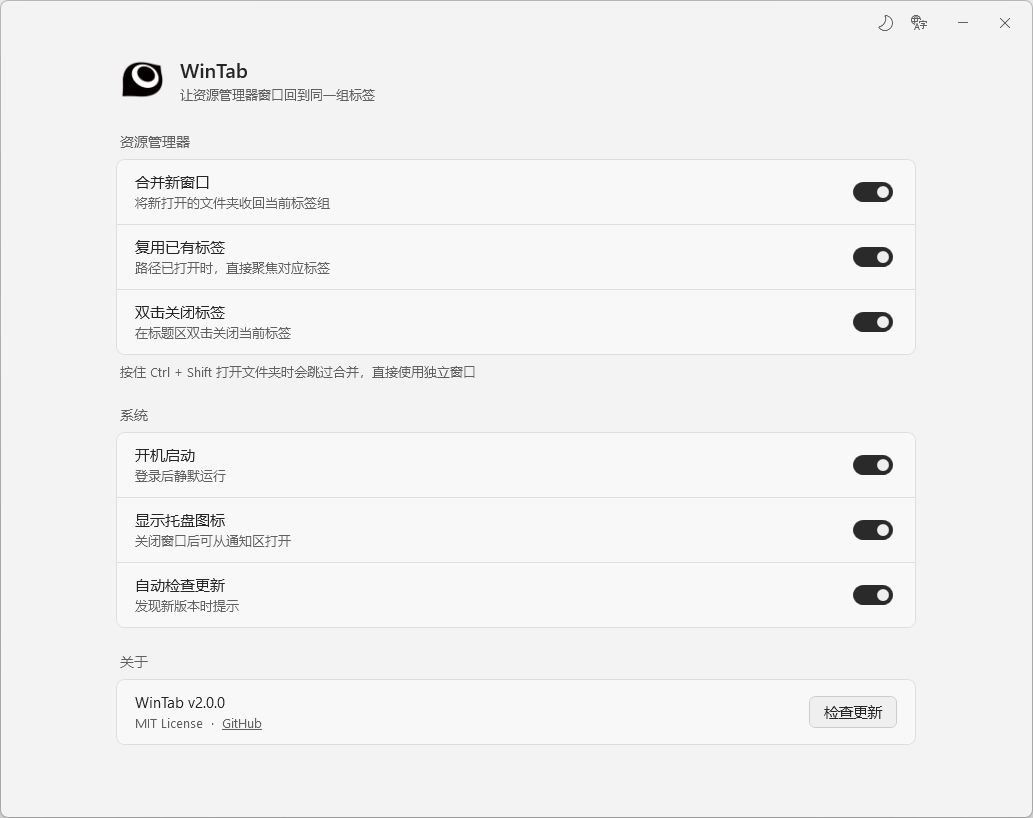
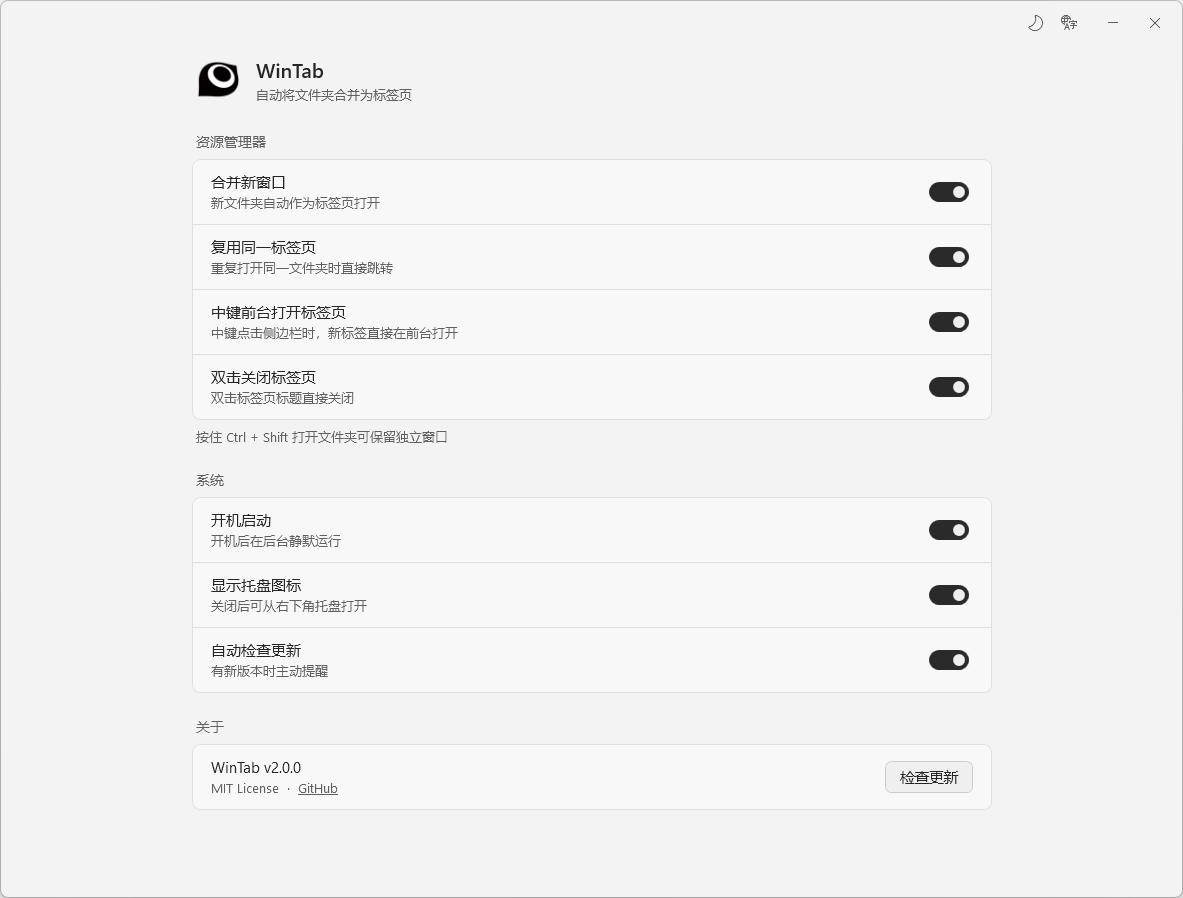
docs: 更新功能说明与界面预览图
- README 中英文补充中键前台打开标签页功能，重写功能列表描述

- 更新 Assets/UI.png 界面预览图

diff --git a/README.en.md b/README.en.md
@@ -20,11 +20,12 @@ WinTab is a Windows 11 utility that automatically merges newly opened File Explo
 
 ## Features
 
-- Merge newly opened File Explorer windows
-- Reuse tabs for paths that are already open
-- Close the current tab by double-clicking the tab title
-- Hold `Ctrl + Shift` for a separate Explorer window
-- System tray runtime
+- Merge new File Explorer windows into tabs
+- Reuse opened tabs instead of opening duplicates
+- Open middle-clicked navigation pane tabs in the foreground
+- Double-click tab titles to close tabs
+- Hold `Ctrl + Shift` while opening folders to keep a separate window
+- System tray background runtime
 
 ## Download
 
